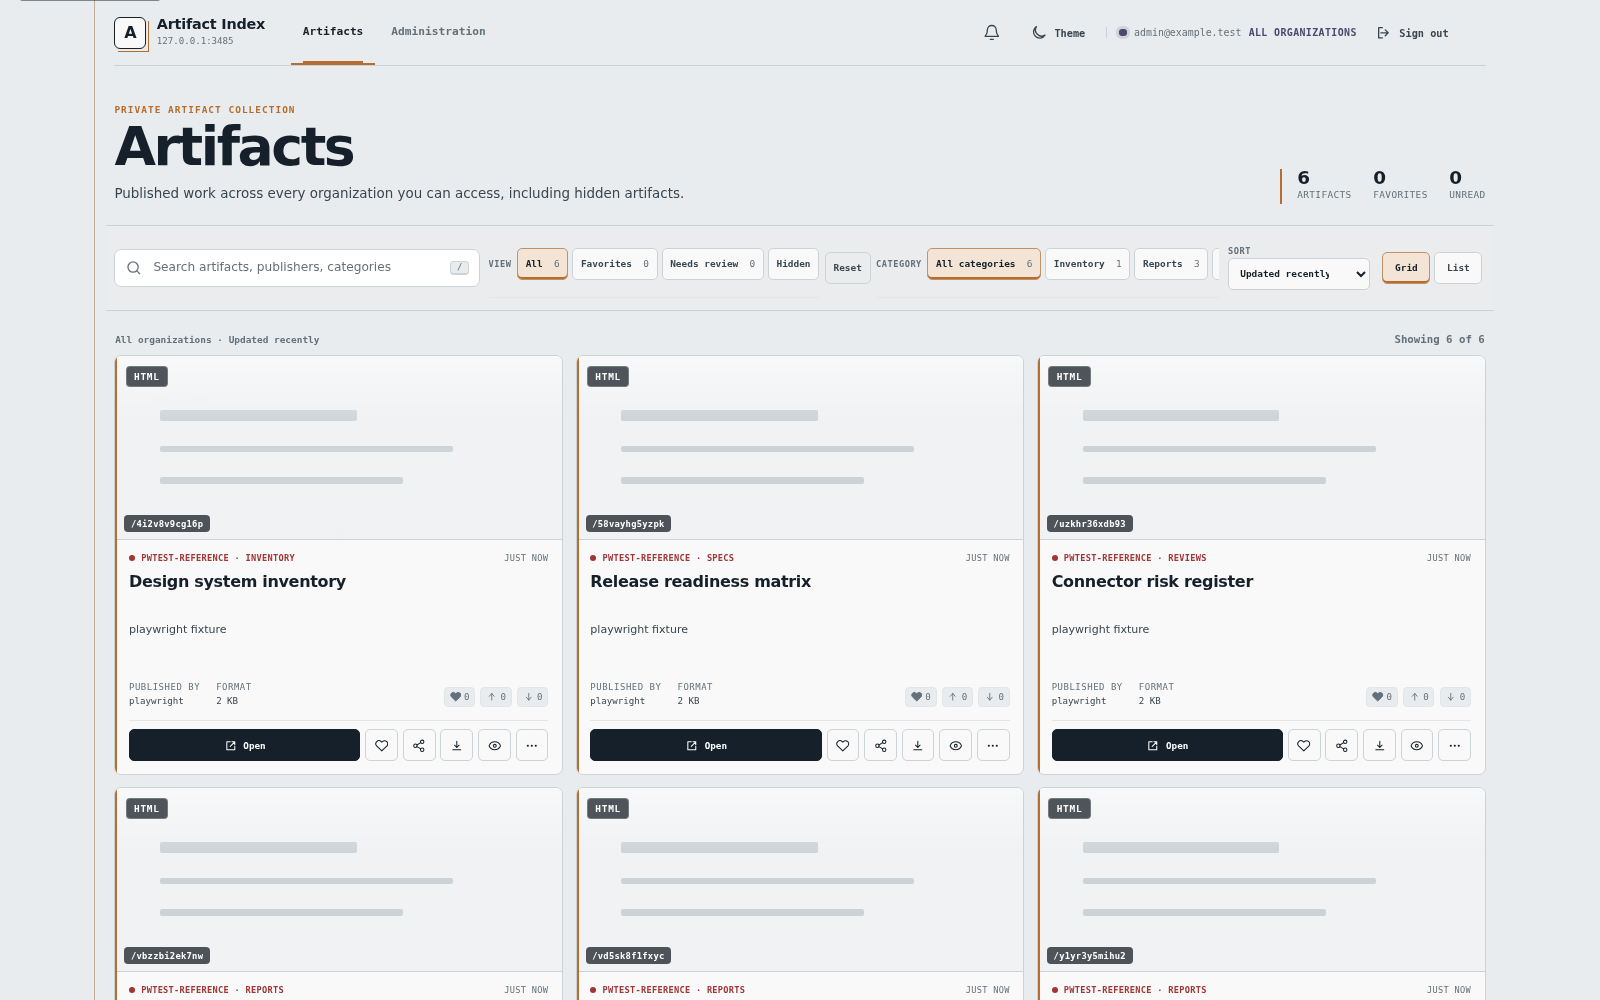
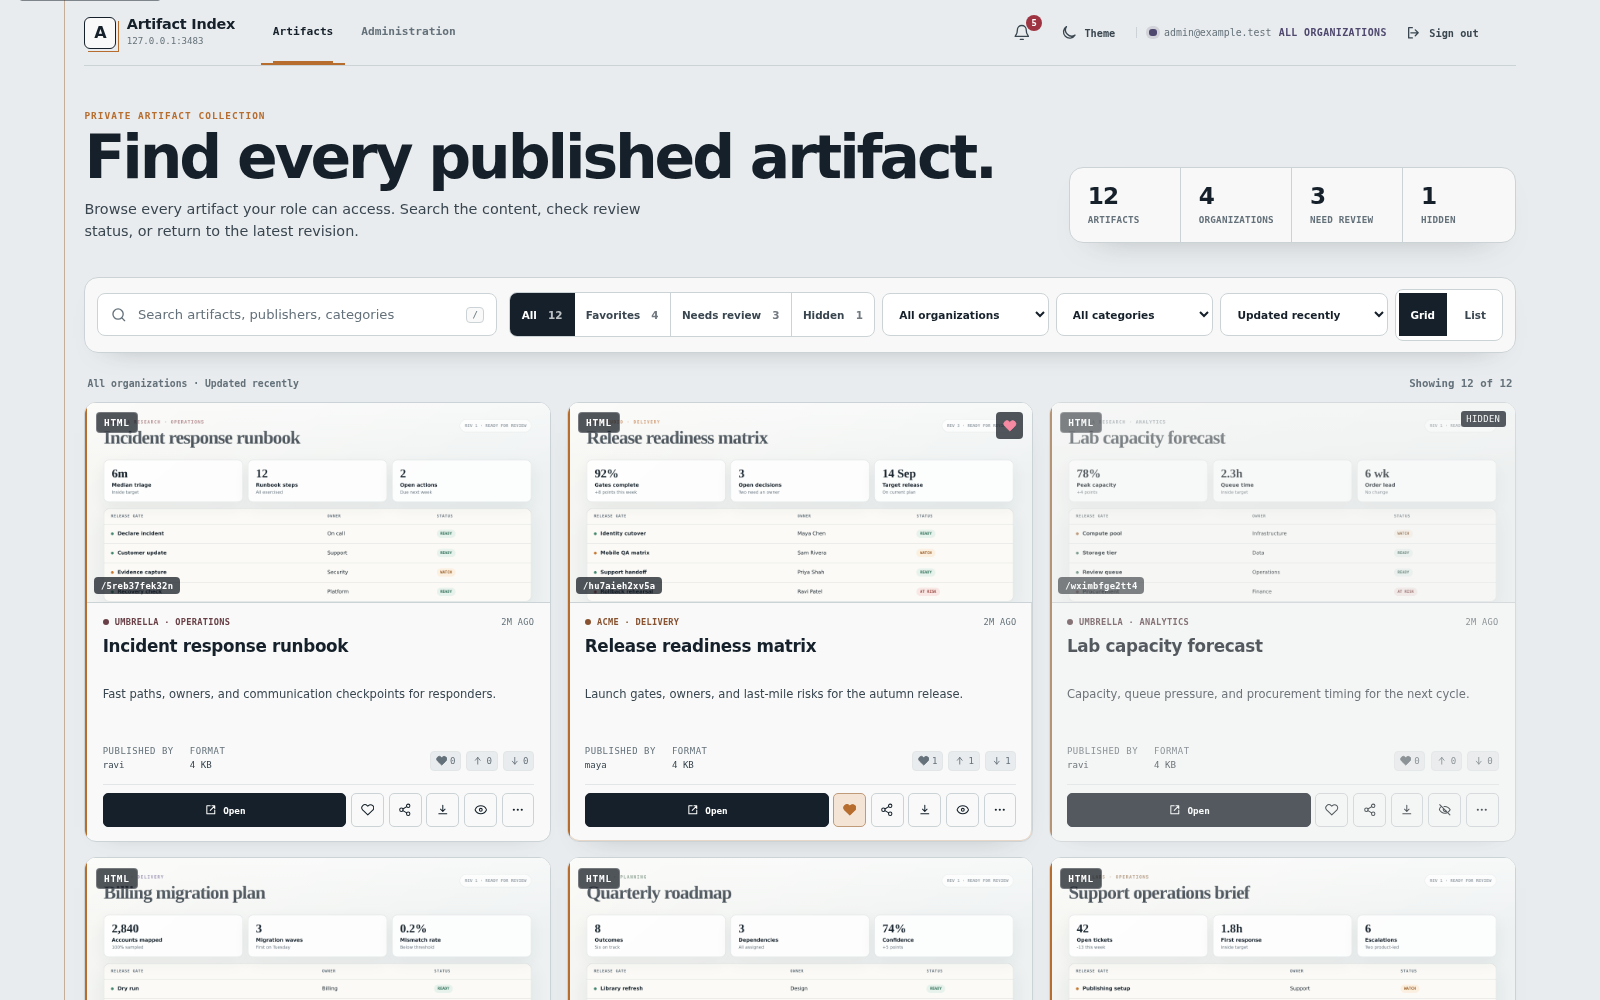
docs: refresh screenshots for v1.7.0

diff --git a/README.md b/README.md
@@ -33,26 +33,41 @@ reference for release testing.
 - **Role-aware by construction.** Administrators can operate across organizations. Members see one
   organization, and Hide/Show or Delete appears only on files attributed to that verified uploader.
 
+### New in v1.7.0
+
+- **A rebuilt artifact library.** The left filter rail is gone. Search, quick views, organization
+  and category dropdowns, sorting, and the grid/list switch now share one toolbar above equal-height
+  cards. The library restores filters and scroll position when a viewer returns from an artifact.
+- **A focused review shell.** Opening an artifact removes the Gallery masthead and gives the
+  sandboxed artifact the page. Back returns to the library; details, feedback, sharing, history,
+  audience, reactions, and file actions live in compact menus and the inspector.
+- **Anchor v2 feedback.** Point and region comments persist semantic evidence such as anchor kind,
+  DOM path, node id, and quote alongside normalized coordinates. Copy prompt packages that context
+  with the exact artifact revision for an agent, while stale-revision markers fail safely.
+- **Safer self-service administration.** Verified upload owners can hide, show, or delete their own
+  artifacts. Administrators can edit a publisher key's label, role, and verified owner without
+  rotating the credential.
+
 ## Screenshots
 
-*Screenshots are from an isolated Rust release-candidate server seeded with fictional organizations
-(acme / globex / initech / umbrella) and captured with the optional preview renderer enabled. Both
-light and dark themes ship; light shown here.*
+*Screenshots are from an isolated Rust v1.7.0 release-candidate server at schema 32, seeded with 12
+fictional artifacts across acme, globex, initech, and umbrella. The optional preview renderer is
+enabled. Both light and dark themes ship; light is shown here.*
 
 | Administrator gallery | Card actions |
 |---|---|
 | [![administrator gallery](docs/screenshots/01-gallery-admin-grid.png)](docs/screenshots/01-gallery-admin-grid.png) | [![administrator card actions](docs/screenshots/02-gallery-admin-actions.png)](docs/screenshots/02-gallery-admin-actions.png) |
-| One searchable collection with organization, category, favorites, and review filters. | Grid and list cards keep Open, Save, Share, download, Hide/Show, and More; destructive actions live behind confirmation. |
+| Search, quick views, organization and category dropdowns, sorting, and layout controls share one top toolbar. | Change category or organization in place; deletion remains explicit and confirmed. |
 
 | List layout | Member gallery |
 |---|---|
 | [![list layout](docs/screenshots/03-gallery-admin-list.png)](docs/screenshots/03-gallery-admin-list.png) | [![member gallery](docs/screenshots/04-gallery-member-grid.png)](docs/screenshots/04-gallery-member-grid.png) |
-| A compact list with a fixed preview column and non-overlapping metadata/actions. | Members get honest org-scoped counts and filters; ownership controls appear only on their uploads. |
+| A compact list keeps previews, metadata, and controls readable without changing the underlying collection. | Members get org-scoped counts and filters; ownership controls appear only on their verified uploads. |
 
 | Anchored review | Version history |
 |---|---|
 | [![feedback inspector](docs/screenshots/05-viewer-feedback.png)](docs/screenshots/05-viewer-feedback.png) | [![history inspector](docs/screenshots/06-viewer-history.png)](docs/screenshots/06-viewer-history.png) |
-| The sandboxed artifact stays visible while the trusted inspector handles anchored, threaded feedback. | Browse current and retained revisions, open an older body, or restore it as a new revision. |
+| The artifact takes priority while the inspector handles threaded anchor-v2 feedback, point/region markers, and Copy prompt. | Browse current and retained revisions, open an older body, or restore it as a new revision. |
 
 | Organization administration | Publisher credentials |
 |---|---|
@@ -85,8 +100,9 @@ light and dark themes ship; light shown here.*
   email identity. Cross-org reads return 404; cross-org mutations for a known id return 403. Admins see every org.
 
 ### Organize
-- **One role-scoped collection** — search titles, publishers, and categories; switch grid/list
-  layout; combine organization/category/favorites/review filters; keep compact result counts honest.
+- **One role-scoped collection** — search titles, publishers, and categories; use organization and
+  category dropdowns; switch grid/list layout; combine favorites, review, hidden, and sort states;
+  keep compact result counts honest. Filters stay in the top toolbar, so cards use the full width.
 - **Categories** — group an org's artifacts and edit an artifact's category from its More menu or
   the Viewer Details inspector.
 - **Show / hide** — unlist an artifact (`set_visibility`): it drops from the member collection and
@@ -98,12 +114,17 @@ light and dark themes ship; light shown here.*
   revisions, feedback, reactions, audience records, and active shares.
 
 ### Collaborate
+- **Focused artifact review** — the full viewer omits the Gallery masthead, keeps the artifact in a
+  sandboxed iframe, and moves secondary work into a trusted inspector. Back returns to the library
+  with its filter and scroll snapshot intact.
 - **Viewer feedback threads** — in-org viewers leave feedback from the trusted shell; each comment
   is its own thread with nested replies, so discussion about different items stays separate.
 - **Delete / resolve** — a viewer can delete or resolve their own comments; admins any in-org; the
   publishing agent resolves/reopens via MCP. Resolve is reversible.
-- **Anchored comments** — pin a comment to a **point** (click) or drag a **region box** (drag) on
-  the artifact; markers scroll/resize-track the content. Older-revision pins are marked stale.
+- **Anchored comments** — pin a comment to a **point** or drag a **region box** on the artifact.
+  Anchor v2 stores semantic evidence with normalized coordinates, and markers track scroll and
+  resize. Copy prompt includes the artifact id, exact revision, page, anchor evidence, and comment
+  for an agent. Older-revision pins remain visible as stale feedback but do not repaint or deep-link.
 
 ### Insight
 - **View analytics** — named, Access-verified views per artifact: total views, unique viewers, and
@@ -135,10 +156,10 @@ light and dark themes ship; light shown here.*
   [Discord runbook](docs/ops/discord-durable-delivery.md#organization-discord-threading).
 
 ### Operate
-- **Settings (admin)** — manage orgs / domains / categories / webhooks, and generate/revoke
-  per-org upload keys with a human display label and optional verified owner (keys hashed, secrets
-  shown once, revocable without a redeploy). Task tabs separate Organizations, Publisher keys, and
-  Notifications.
+- **Settings (admin)** — manage orgs / domains / categories / webhooks, and generate, edit, or
+  revoke per-org upload keys with a human display label, role, and optional verified owner. Keys
+  stay hashed, secrets are shown once, and metadata edits do not rotate the credential. Task tabs
+  separate Organizations, Publisher keys, and Notifications.
 - **Crash-safe storage** — staging→rename lifecycle, commit-then-swap updates, and startup audit
   recovery reconcile the DB and files on disk after an interrupted operation.
 - **MCP observability** — privacy-safe Prometheus metrics, opaque request correlation, bounded

diff --git a/docs/releases/v1.7.0.md b/docs/releases/v1.7.0.md
@@ -2,11 +2,29 @@
 
 ## Schema
 
-- The public v1.6.1 release upgrades from schema 23 to schema 31.
-- The VM310 PBI-079 production baseline upgrades from schema 29 to schema 31.
+- The public v1.6.1 release upgrades from schema 23 to schema 32.
+- The VM310 PBI-079 production baseline upgrades from schema 29 to schema 32.
 - Migrations are forward-only and run before the listener becomes ready. Frozen historical
-  fixtures cover every boundary through schema 31, reopen idempotency, corruption refusal, and
+  fixtures cover every boundary through schema 32, reopen idempotency, corruption refusal, and
   tenant isolation.
+- Schema 32 adds anchor-v2 evidence fields for feedback while retaining every legacy anchor and
+  reply shape.
+
+## Release highlights
+
+- The artifact library now uses one top toolbar for search, quick views, organization and category
+  dropdowns, sorting, and grid/list layout. The old left filter rail is removed, cards align to a
+  common height, and library state returns after viewing an artifact.
+- The artifact viewer now prioritizes the sandboxed artifact instead of repeating the Gallery
+  masthead. Compact menus and a trusted inspector own feedback, details, sharing, history,
+  audience, reactions, theme, download, and deletion.
+- Anchor v2 persists kind, DOM path, node id, quote, page, and normalized point or region evidence
+  through Rust, Node, HTTP, and MCP projections. The browser adds marker previews, a positioned
+  composer, threaded replies, stale-revision handling, and deterministic Copy prompt output.
+- Verified publisher ownership now governs member Hide/Show and Delete controls. Administrators
+  can fill or edit publisher-key label, role, and verified owner metadata without changing the key.
+- Organization-scoped Discord notification threads and guarded two-way replies remain opt-in.
+  Artifact MCP stays canonical when Discord is unavailable.
 
 ## Immutable pre-migration backup
 
@@ -26,7 +44,7 @@ foreign-key errors.
 3. Keep `DISCORD_INBOUND_ENABLED` absent or set to `0` for the initial rollout.
 4. Deploy only the immutable OCI reference from `release-manifest.json`; do not deploy a mutable
    tag or rebuild on VM310.
-5. Wait for `/health` to return `{"status":"ok"}` and verify that the database reports schema 31.
+5. Wait for `/health` to return `{"status":"ok"}` and verify that the database reports schema 32.
 6. Confirm Settings returns only redacted organization Discord readiness and that browser token
    fields remain empty after save and reload.
 7. Confirm Artifact MCP feedback, publishing, and viewing remain available with Discord
@@ -49,13 +67,18 @@ foreign-key errors.
   notification floods. When several exact cards exist, recovery selects Discord's newest match.
 - Artifact MCP remains canonical during Discord REST, Gateway, permission, rate-limit, and thread
   failures.
+- The UI and anchor-v2 additions require no new environment variable. Existing feedback remains
+  readable; new v2 fields are nullable for legacy rows and always project explicitly through HTTP
+  and MCP.
 
 ## Compatibility and rollback
 
 - Current MCP legacy-client behavior from v1.6.1 is retained alongside the newer MCP contract.
+- Anchor-v2 persistence and projections are covered by Node/Rust parity checks. Legacy anchors,
+  replies, and clients continue to use their existing shapes.
 - The Node comparison runtime intentionally exposes a safe-unavailable projection for the
   Rust-owned organization credential and inbound Gateway capabilities.
-- An image-only rollback is unsafe after schema 31 has been opened. Roll back by stopping the
+- An image-only rollback is unsafe after schema 32 has been opened. Roll back by stopping the
   candidate, restoring both data and deployment configuration from the immutable backup above,
   and starting the previously verified immutable rollback image recorded in the release manifest.
 - Leave inbound synchronization disabled throughout rollback.
